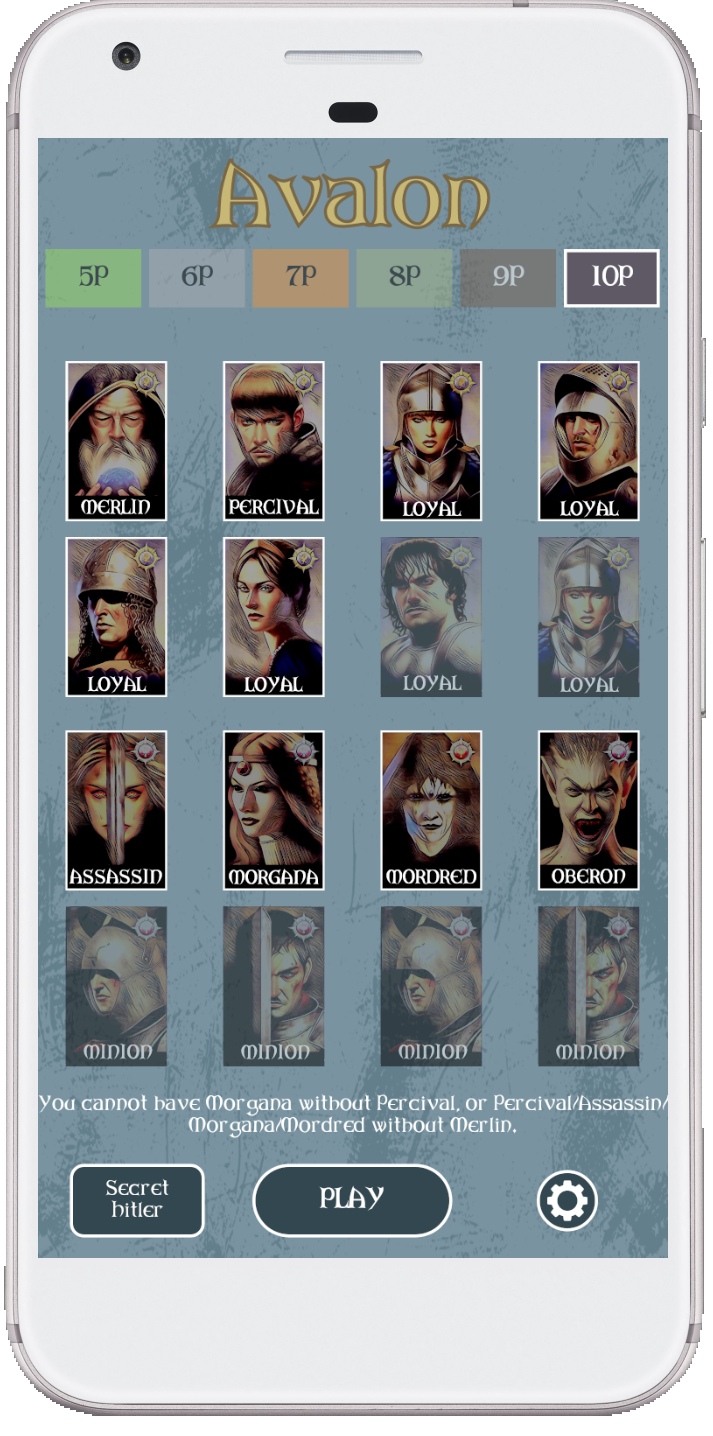
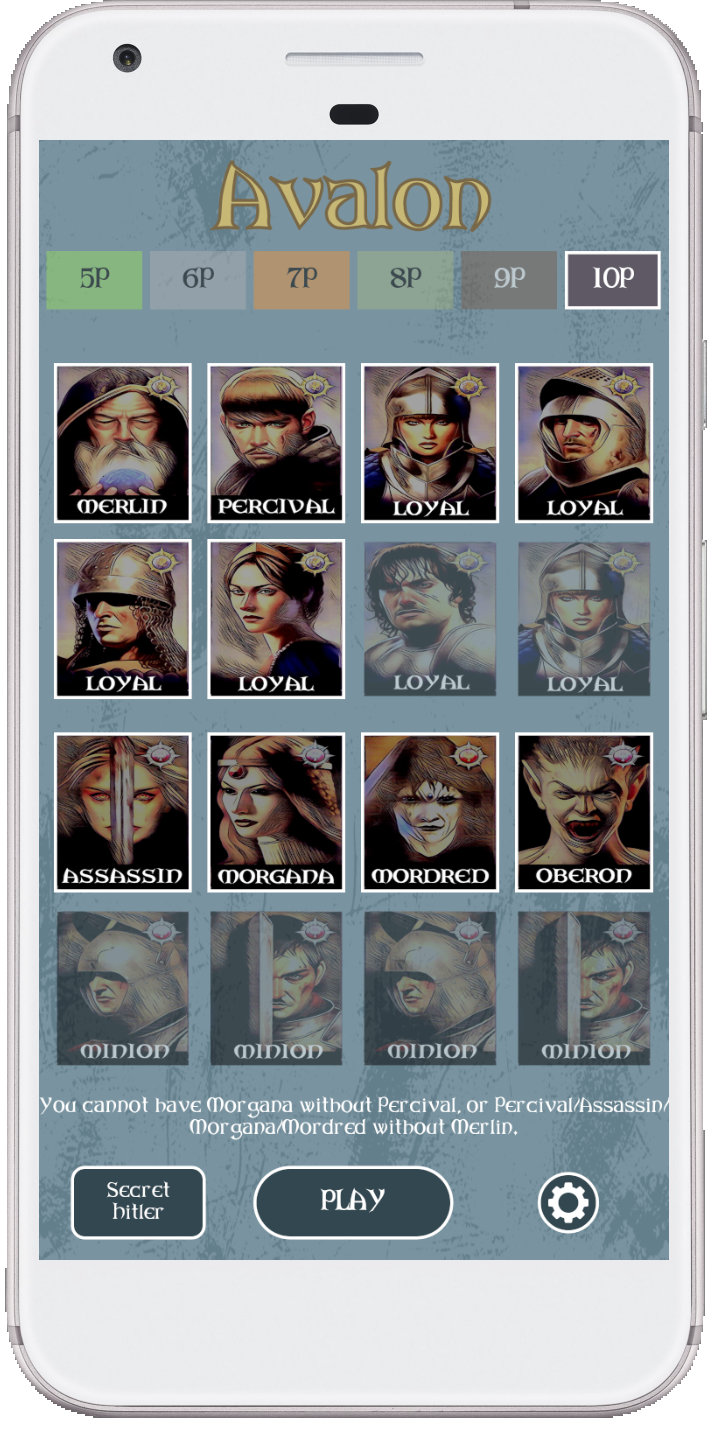
Update logic in CheckableObserverImageButton to set BackgroundResource instead of ImageResource. Reduce no of images in AvalonCharacterSelectionActivity by 50%. Bump version to 1.4.

diff --git a/app/src/main/java/com/liweiyap/narradir/utils/CheckableObserverImageButton.java b/app/src/main/java/com/liweiyap/narradir/utils/CheckableObserverImageButton.java
@@ -78,7 +78,7 @@ public class CheckableObserverImageButton
         setAlpha(1.f);
         try
         {
-            setImageResource(mCheckedDrawableId);
+            setBackgroundResource(mCheckedDrawableId);
         }
         catch (Exception e)
         {
@@ -93,7 +93,7 @@ public class CheckableObserverImageButton
         setAlpha(0.5f);
         try
         {
-            setImageResource(mUncheckedDrawableId);
+            setBackgroundResource(mUncheckedDrawableId);
         }
         catch (Exception e)
         {
